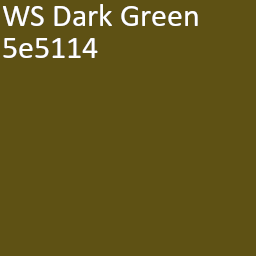
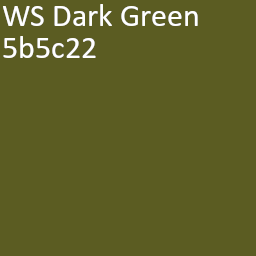
Re-measure grass colors in more neutral light

Changed region(s): [[0.0625, 0.125, 0.375, 0.25]]

diff --git a/README.md b/README.md
@@ -87,7 +87,9 @@ Ballast
 Static grass
 ------------
 
-<img src="swatches/n-dunkelgruen.png" width="20%"> <img src="swatches/ws-medium-green.png" width="20%"> <img src="swatches/n-hellgruen.png" width="20%"> <img src="swatches/n-fruehlungswiese.png" width="20%"> <img src="swatches/n-braun.png" width="20%"> <img src="swatches/ws-dark-green.png" width="20%"> <img src="swatches/n-wiese.png" width="20%"> <img src="swatches/n-goldgelb.png" width="20%">
+<img src="swatches/ws-dark-green.png" width="20%"> <img src="swatches/ws-medium-green.png" width="20%"> <img src="swatches/ws-light-green.png" width="20%"> <img src="swatches/ws-straw.png" width="20%">
+
+<img src="swatches/n-dunkelgruen.png" width="20%"> <img src="swatches/n-hellgruen.png" width="20%"> <img src="swatches/n-olivgruen.png" width="20%"> <img src="swatches/n-fruehlungswiese.png" width="20%"> <img src="swatches/n-wiese.png" width="20%"> <img src="swatches/n-goldgelb.png" width="20%"> <img src="swatches/n-braun.png" width="20%">
 
 
 Other foliage
@@ -99,7 +101,9 @@ Other foliage
 Reference images
 ----------------
 
-![](Color-systems/IMG_20240314_101609-ral.jpg)
-*Image appears exceptionally brown, but I've tried twice already with the same result...*
+![](Color-systems/IMG_20240320_091203-srgb.jpg)
+
+![](Color-systems/woodland-scenics-static-grass-srgb.png)
+Catalog image adjusted to match above results (WS Dark Green, WS Medium Green).
 
 ![](Color-systems/IMG_20240315_170003-srgb.jpg)
